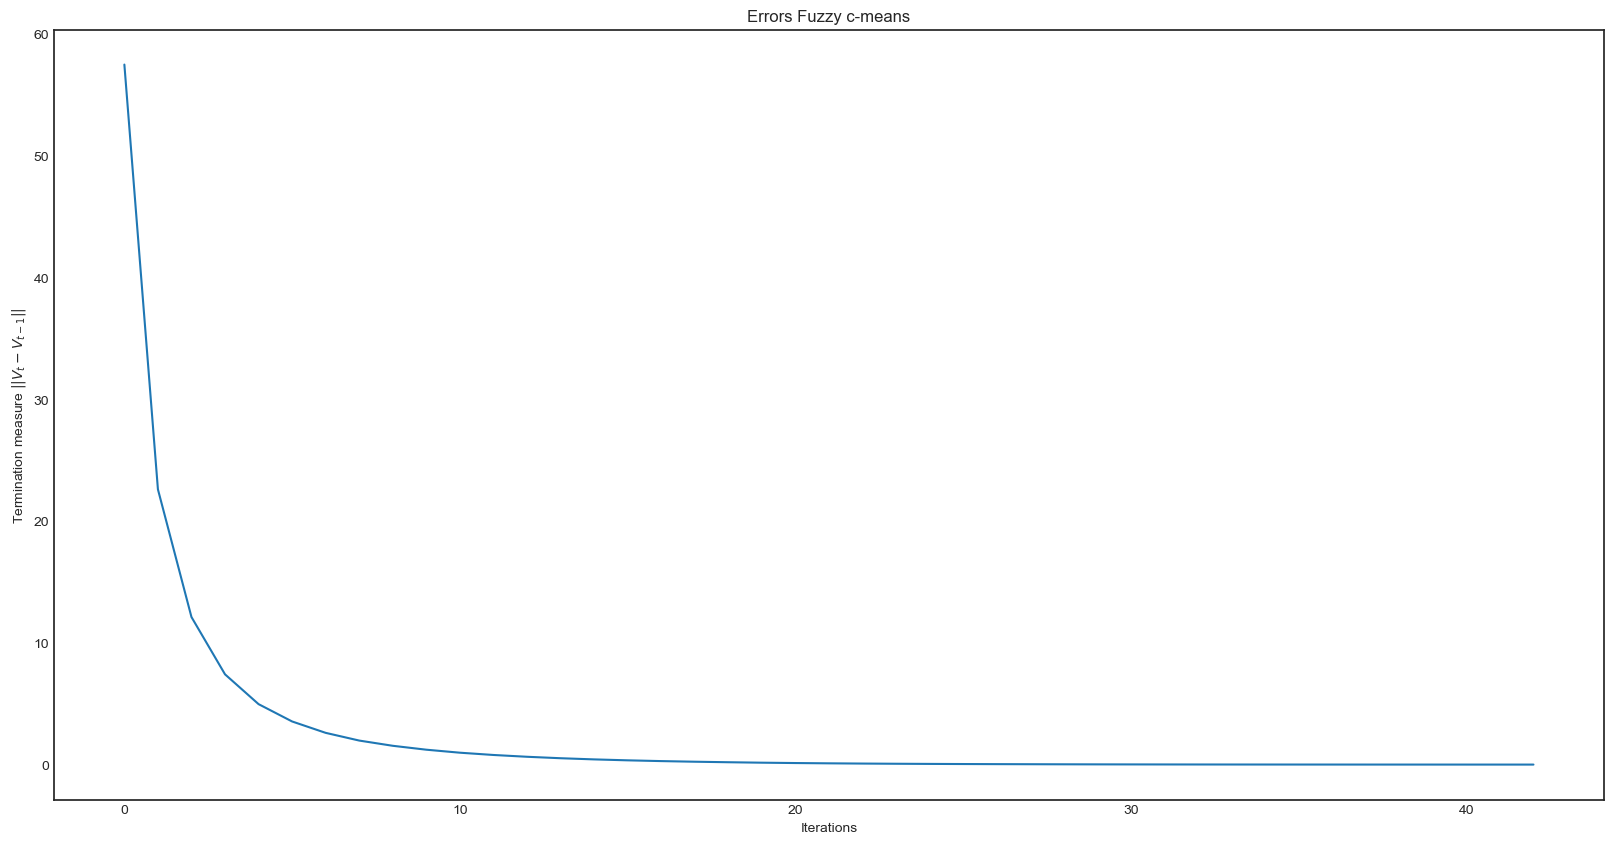
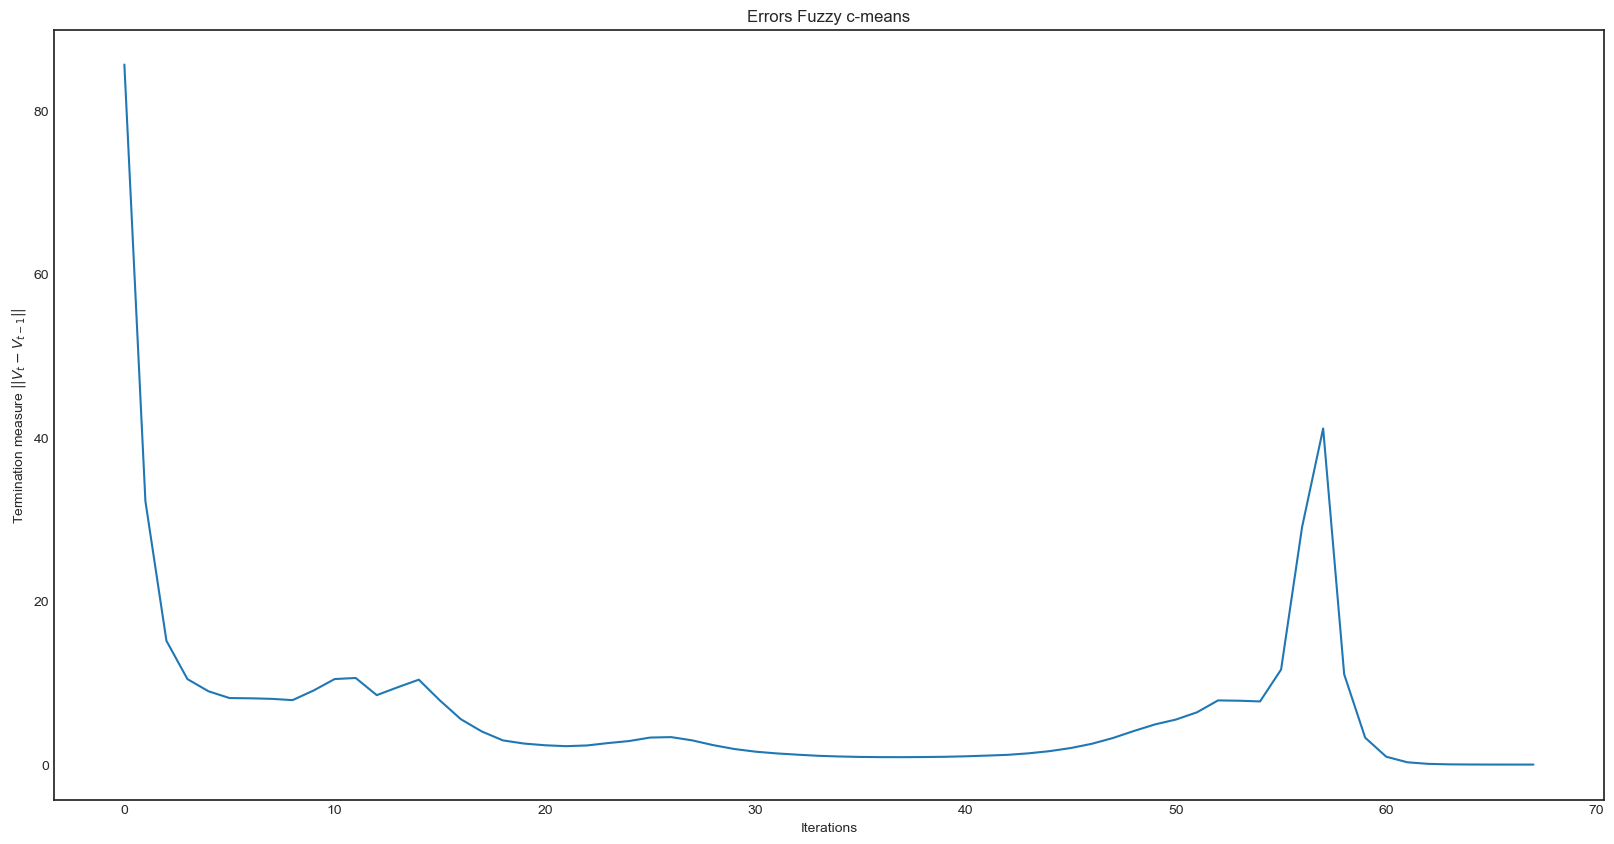
new preprocessing of hyp

diff --git a/datasets.py b/datasets.py
@@ -14,17 +14,19 @@ def preprocess_hypothyroid():
     data = arff.loadarff(file_name)
     df = pd.DataFrame(data[0])
     df = df.applymap(lambda x: x.decode('utf-8') if type(x) != float else x)
-
+    df = df.drop([1364], axis=0) # there is a patient with 455 years; outlier
     # drop column with missing values
 
     df = df.drop('TBG', axis=1)
     df = df.drop('TBG_measured', axis=1) # column with just one value
     df = df.replace('?', np.nan) # convert ? to nan
 
-    # fill columns with missing values with the median of the column
+    # fill columns with missing values with the nearest neighbour
     missing_values_columns = ['age', 'TSH', 'T3', 'TT4', 'T4U', 'FTI']
-    for c_missing in missing_values_columns:
-        df[c_missing] = df[c_missing].fillna(df[c_missing].median())
+    #for c_missing in missing_values_columns:
+        #df[c_missing] = df[c_missing].fillna(df[c_missing].median())
+    imputer = KNNImputer(n_neighbors=1)
+    df[missing_values_columns] = imputer.fit_transform(df[missing_values_columns].values)
 
     df['sex'] = df['sex'].fillna(df['sex'].mode().values[0])
 
@@ -45,7 +47,7 @@ def preprocess_hypothyroid():
 
     numeric_vbles = ['age', 'TSH', 'T3', 'TT4', 'T4U', 'FTI']
     for c in numeric_vbles:
-        df[c] = StandardScaler().fit_transform(df[c].values.reshape(-1, 1))
+        df[c] = RobustScaler().fit_transform(df[c].values.reshape(-1, 1))
 
     df['Class'] = df['Class'].replace({'negative': 0, 'compensated_hypothyroid': 1, 'primary_hypothyroid': 2,
                                        'secondary_hypothyroid': 3})

diff --git a/main.py b/main.py
@@ -12,7 +12,7 @@ parser = argparse.ArgumentParser()
 
 ### run--> python3 main.py --dataset vote
 parser.add_argument("--dataset", type=str, default='vote', choices=['vote', 'adult', 'iris', 'cmc', 'hyp'])
-parser.add_argument("--clusteringAlg", type=str, default='agg', choices=['km', 'bkm', 'ms', 'agg', 'kmed', 'khm', 'fuzzy'])
+parser.add_argument("--clusteringAlg", type=str, default='agg', choices=['km', 'bkm', 'ms', 'agg', 'kmed', 'fuzzy'])
 parser.add_argument("--max_num_clusters", type=int, default=10, choices=range(2,100))
 parser.add_argument("--num_clusters", type=int)
 # For Agglomerative clustering parameters
